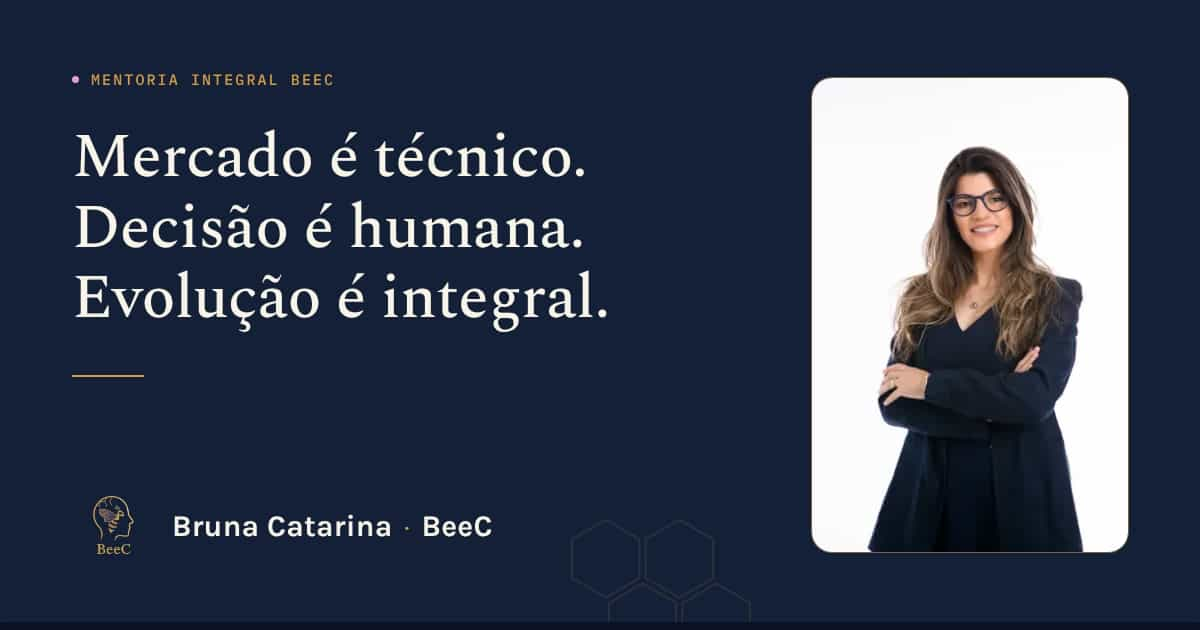
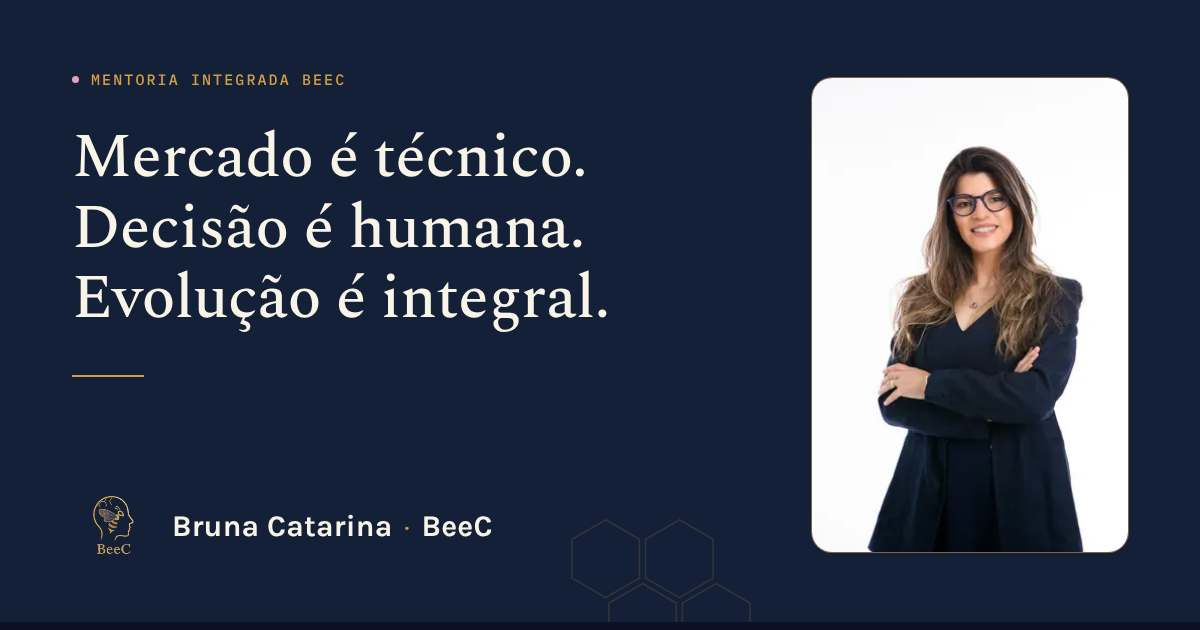
v0.7.2 — Sincronização Mentoria Integrada (3 arquivos)
Claude-Session: https://claude.ai/code/session_01S8tKi6axrGgY4m3yE5JyVc

diff --git a/mercado-financeiro/index.html b/mercado-financeiro/index.html
@@ -3,24 +3,24 @@
 <head>
     <meta charset="UTF-8">
     <meta name="viewport" content="width=device-width, initial-scale=1.0">
-    <title>Mentoria Integral BeeC | Bruna Catarina · Mercado Financeiro</title>
-    <meta name="description" content="Mercado é técnico. Decisão é humana. Mentoria em mercado financeiro com técnica, mente, princípios e evidência. Sem sinais, sem promessa.">
+    <title>Mentoria Integrada BeeC | Bruna Catarina · Mercado Financeiro</title>
+    <meta name="description" content="Mercado é técnico. Decisão é humana. Mentoria em mercado financeiro com técnica, mentalidade, princípios e evidência. Sem sinais, sem promessa.">
     <link rel="canonical" href="https://colmeia-bruna-19c1.vercel.app/mercado-financeiro">
 
     <meta property="og:type" content="website">
-    <meta property="og:title" content="Mentoria Integral BeeC | Bruna Catarina · Mercado Financeiro">
-    <meta property="og:description" content="Mercado é técnico. Decisão é humana. Mentoria em mercado financeiro com técnica, mente, princípios e evidência. Sem sinais, sem promessa.">
+    <meta property="og:title" content="Mentoria Integrada BeeC | Bruna Catarina · Mercado Financeiro">
+    <meta property="og:description" content="Mercado é técnico. Decisão é humana. Mentoria em mercado financeiro com técnica, mentalidade, princípios e evidência. Sem sinais, sem promessa.">
     <meta property="og:url" content="https://colmeia-bruna-19c1.vercel.app/mercado-financeiro">
     <!-- OG FINAL CANDIDATA v0.7: /images/og-mercado-financeiro.jpg (JPEG 1200×630, og:image principal). Só vale em produção depois do QA visual e da aprovação da Bruna. -->
     <meta property="og:image" content="https://colmeia-bruna-19c1.vercel.app/images/og-mercado-financeiro.jpg">
     <meta property="og:image:type" content="image/jpeg">
     <meta property="og:image:width" content="1200">
     <meta property="og:image:height" content="630">
-    <meta property="og:image:alt" content="Bruna Catarina e a frase: Mercado é técnico. Decisão é humana. Evolução é integral. Mentoria Integral BeeC. Bruna Catarina · BeeC.">
+    <meta property="og:image:alt" content="Bruna Catarina e a frase: Mercado é técnico. Decisão é humana. Evolução é integral. Mentoria Integrada BeeC. Bruna Catarina · BeeC.">
     <meta property="og:locale" content="pt_BR">
     <meta name="twitter:card" content="summary_large_image">
-    <meta name="twitter:title" content="Mentoria Integral BeeC | Bruna Catarina · Mercado Financeiro">
-    <meta name="twitter:description" content="Mercado é técnico. Decisão é humana. Mentoria em mercado financeiro com técnica, mente, princípios e evidência. Sem sinais, sem promessa.">
+    <meta name="twitter:title" content="Mentoria Integrada BeeC | Bruna Catarina · Mercado Financeiro">
+    <meta name="twitter:description" content="Mercado é técnico. Decisão é humana. Mentoria em mercado financeiro com técnica, mentalidade, princípios e evidência. Sem sinais, sem promessa.">
     <meta name="twitter:image" content="https://colmeia-bruna-19c1.vercel.app/images/og-mercado-financeiro.jpg">
 
     <link rel="preload" href="/fonts/spectral-latin-500-normal.woff2" as="font" type="font/woff2" crossorigin>
@@ -173,7 +173,7 @@
         .hero-photo-frame img, .profile-photo img { width: 100%; height: 100%; object-fit: cover; object-position: top center; }
         .h1-linha { display: block; }
 
-        /* Bloco 2 — Mentoria Integral */
+        /* Bloco 2 — Mentoria Integrada */
         .citacao-grande { font-family: var(--serif); font-weight: 500; font-size: 26px; line-height: 1.25; color: var(--marinho); margin-bottom: 24px; }
         .nota-rodape-bloco { margin-top: 24px; font-size: 15px; padding-top: 16px; border-top: 1px solid rgba(30, 36, 56, 0.15); }
 
@@ -303,11 +303,11 @@
             <div class="container-wide">
                 <div class="hero-flex">
                     <div class="hero-text">
-                        <p class="etiqueta"><span class="ponto-luz" aria-hidden="true"></span>Mentoria Integral BeeC · Mercado Financeiro</p>
+                        <p class="etiqueta"><span class="ponto-luz" aria-hidden="true"></span>Mentoria Integrada BeeC · Mercado Financeiro</p>
                         <h1><span class="h1-linha">Mercado é técnico.</span> <span class="h1-linha">Decisão é humana.</span> <span class="h1-linha">Evolução é integral.</span></h1>
-                        <p class="hero-sub">Técnica, mente, princípios e evidência trabalhando juntas para formar decisões melhores — com mentoria humana, dados e IA ampliando o que conseguimos enxergar.</p>
+                        <p class="hero-sub">Técnica, mentalidade, princípios e evidência trabalhando juntas para formar decisões melhores — com mentoria humana, dados e IA ampliando o que conseguimos enxergar.</p>
                         <div class="hero-ctas">
-                            <a href="#mentoria" class="btn btn-primary-fill">Conheça a Mentoria Integral BeeC</a>
+                            <a href="#mentoria" class="btn btn-primary-fill">Conheça a Mentoria Integrada BeeC</a>
                             <a href="#var" class="btn btn-outline-full">Veja como funciona o VAR do Trade</a>
                         </div>
                         <p class="hero-apoio">Educação e acompanhamento. Sem sala de sinais e sem promessa de resultado.</p>
@@ -319,13 +319,13 @@
             </div>
         </section>
 
-        <!-- Bloco 2 — O que é a Mentoria Integral BeeC -->
+        <!-- Bloco 2 — O que é a Mentoria Integrada BeeC -->
         <section class="claro" id="mentoria">
             <div class="container">
                 <p class="etiqueta">O que é</p>
                 <h2 class="citacao-grande">Eu não acompanho apenas o trade. Eu acompanho a pessoa que decide.</h2>
-                <p>A Mentoria Integral BeeC é um acompanhamento educacional para quem estuda, investe ou opera e quer decidir com mais critério no mercado financeiro.</p>
-                <p>“Integral” quer dizer que o acompanhamento olha para as quatro dimensões que pesam em cada decisão: o que você sabe, como você age sob pressão, no que você se sustenta e o que os seus registros mostram. A técnica sozinha não explica por que alguém que sabe o que fazer faz outra coisa.</p>
+                <p>A Mentoria Integrada BeeC é um acompanhamento educacional para quem estuda, investe ou opera e quer decidir com mais critério no mercado financeiro.</p>
+                <p>“Integrada” quer dizer que o acompanhamento olha para as quatro dimensões que pesam em cada decisão: o que você sabe, como você age sob pressão, no que você se sustenta e o que os seus registros mostram. A técnica sozinha não explica por que alguém que sabe o que fazer faz outra coisa.</p>
                 <p>Cada ciclo começa com um plano, passa pela execução, é revisto com evidência e termina com um ajuste para o próximo ciclo. Quem conduz essa conversa é a Bruna.</p>
                 <p class="nota-rodape-bloco">Não é sala de sinais, não é recomendação de investimento e não tem promessa de resultado.</p>
             </div>
@@ -334,7 +334,7 @@
         <!-- Bloco 3 — As quatro dimensões -->
         <section class="claro sem-topo" id="dimensoes">
             <div class="container-wide">
-                <h2>As quatro dimensões da Mentoria Integral</h2>
+                <h2>As quatro dimensões da Mentoria Integrada</h2>
                 <p>Uma evolução consistente depende das quatro ao mesmo tempo.</p>
                 <div class="dimensoes-grid">
                     <article class="course-card">
@@ -343,7 +343,7 @@
                         <p class="course-description">Mercado, leitura, plano, risco e execução.</p>
                     </article>
                     <article class="course-card">
-                        <span class="course-label">02 · Mente</span>
+                        <span class="course-label">02 · Mentalidade</span>
                         <h3 class="course-title">Como você decide sob pressão.</h3>
                         <p class="course-description">Disciplina, comportamento, impulso, medo, consistência e decisão.</p>
                     </article>
@@ -481,10 +481,10 @@
         <section class="escuro cta-section" id="conversa">
             <div class="container">
                 <h2>Vamos conversar sobre o seu momento?</h2>
-                <p class="cta-texto">Conte em que ponto você está e o que quer construir. A partir daí, a gente vê junto se a Mentoria Integral faz sentido agora.</p>
+                <p class="cta-texto">Conte em que ponto você está e o que quer construir. A partir daí, a gente vê junto se a Mentoria Integrada faz sentido agora.</p>
                 <div class="cta-botoes">
-                    <a href="https://wa.me/5511975828778?text=Ol%C3%A1%2C%20Bruna%21%20Vim%20pela%20p%C3%A1gina%20da%20Mentoria%20Integral%20BeeC%20e%20quero%20entender%20se%20esse%20acompanhamento%20faz%20sentido%20para%20o%20meu%20momento." class="btn btn-primary-fill btn-arrow" target="_blank" rel="noopener">Falar com a Bruna</a>
-                    <a href="https://docs.google.com/forms/d/e/1FAIpQLSessPrZxMMJo0japqlSpnxhB_C1ct5C9uf718Y4EItiG6wEcA/viewform" class="btn btn-outline-full" target="_blank" rel="noopener">Quero conhecer a Mentoria Integral BeeC</a>
+                    <a href="https://wa.me/5511975828778?text=Ol%C3%A1%2C%20Bruna%21%20Vim%20pela%20p%C3%A1gina%20da%20Mentoria%20Integrada%20BeeC%20e%20quero%20entender%20se%20esse%20acompanhamento%20faz%20sentido%20para%20o%20meu%20momento." class="btn btn-primary-fill btn-arrow" target="_blank" rel="noopener">Falar com a Bruna</a>
+                    <a href="https://docs.google.com/forms/d/e/1FAIpQLSessPrZxMMJo0japqlSpnxhB_C1ct5C9uf718Y4EItiG6wEcA/viewform" class="btn btn-outline-full" target="_blank" rel="noopener">Quero conhecer a Mentoria Integrada BeeC</a>
                 </div>
 
                 <div class="community-section">

diff --git a/privacidade/index.html b/privacidade/index.html
@@ -5,7 +5,7 @@
     <meta name="viewport" content="width=device-width, initial-scale=1.0">
     <!-- PÁGINA CANDIDATA v1.0 — NÃO PUBLICADA. Aguarda QA do ChatGPT e aprovação da Bruna. -->
     <title>Aviso de Privacidade | Bruna Catarina · BeeC</title>
-    <meta name="description" content="Como a BCB Educacional / BeeC trata os dados informados na Lista de Interesse da Mentoria Integral BeeC e como exercer seus direitos.">
+    <meta name="description" content="Como a BCB Educacional / BeeC trata os dados informados na Lista de Interesse da Mentoria Integrada BeeC e como exercer seus direitos.">
     <link rel="canonical" href="https://colmeia-bruna-19c1.vercel.app/privacidade">
 
     <link rel="preload" href="/fonts/spectral-latin-500-normal.woff2" as="font" type="font/woff2" crossorigin>
@@ -119,7 +119,7 @@
         <div class="container">
             <p class="etiqueta">Privacidade</p>
             <h1>Aviso de Privacidade</h1>
-            <p class="intro">Como a BCB Educacional / BeeC trata os dados que você informa na Lista de Interesse da Mentoria Integral BeeC — e como exercer seus direitos.</p>
+            <p class="intro">Como a BCB Educacional / BeeC trata os dados que você informa na Lista de Interesse da Mentoria Integrada BeeC — e como exercer seus direitos.</p>
             <p class="versao">Versão 1.0 · Atualizado em 2 de outubro de 2026</p>
 
             <section class="bloco" aria-labelledby="s1">
@@ -131,7 +131,7 @@
             <section class="bloco" aria-labelledby="s2">
                 <span class="num">02</span>
                 <h2 id="s2">Quais dados são coletados</h2>
-                <p>Os dados que você informa na Lista de Interesse da Mentoria Integral BeeC:</p>
+                <p>Os dados que você informa na Lista de Interesse da Mentoria Integrada BeeC:</p>
                 <ul class="lista">
                     <li>nome completo e e-mail;</li>
                     <li>WhatsApp com DDD, se você quiser informar;</li>
@@ -146,7 +146,7 @@
             <section class="bloco" aria-labelledby="s3">
                 <span class="num">03</span>
                 <h2 id="s3">Para que os dados são usados</h2>
-                <p>Para registrar seu interesse, compreender o contexto inicial do seu momento no mercado e entrar em contato com você sobre a Mentoria Integral BeeC.</p>
+                <p>Para registrar seu interesse, compreender o contexto inicial do seu momento no mercado e entrar em contato com você sobre a Mentoria Integrada BeeC.</p>
             </section>
 
             <section class="bloco" aria-labelledby="s4">
@@ -208,7 +208,7 @@
 
     <footer>
         <p>&copy; 2026 Bruna Catarina BeeC. Todos os direitos reservados.</p>
-        <p class="footer-links"><a href="/mercado-financeiro">Mentoria Integral BeeC</a> · <a href="/">Página inicial</a></p>
+        <p class="footer-links"><a href="/mercado-financeiro">Mentoria Integrada BeeC</a> · <a href="/">Página inicial</a></p>
     </footer>
 </body>
 </html>
